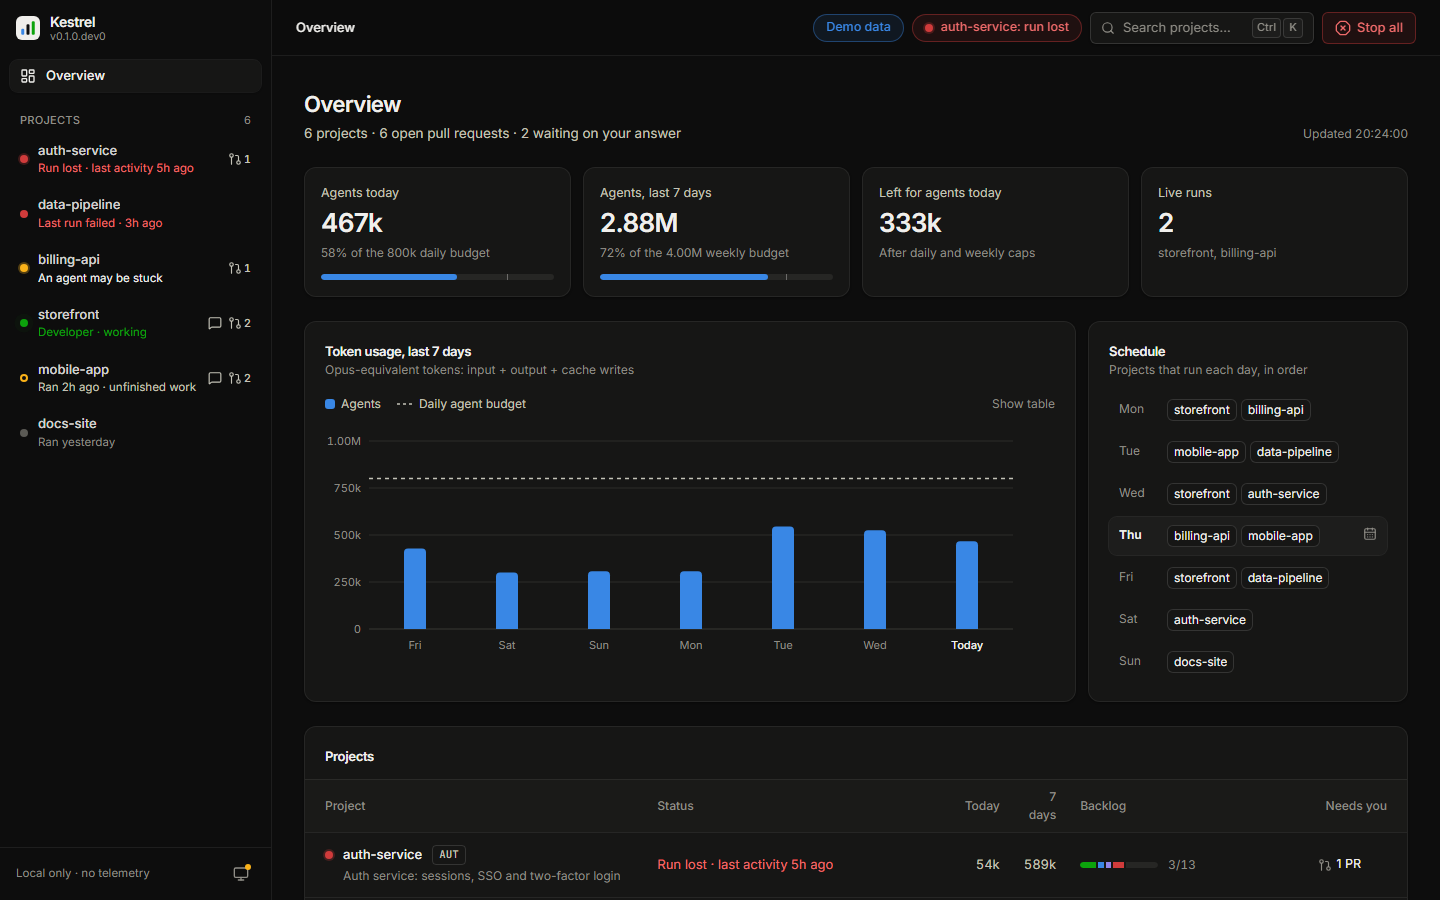
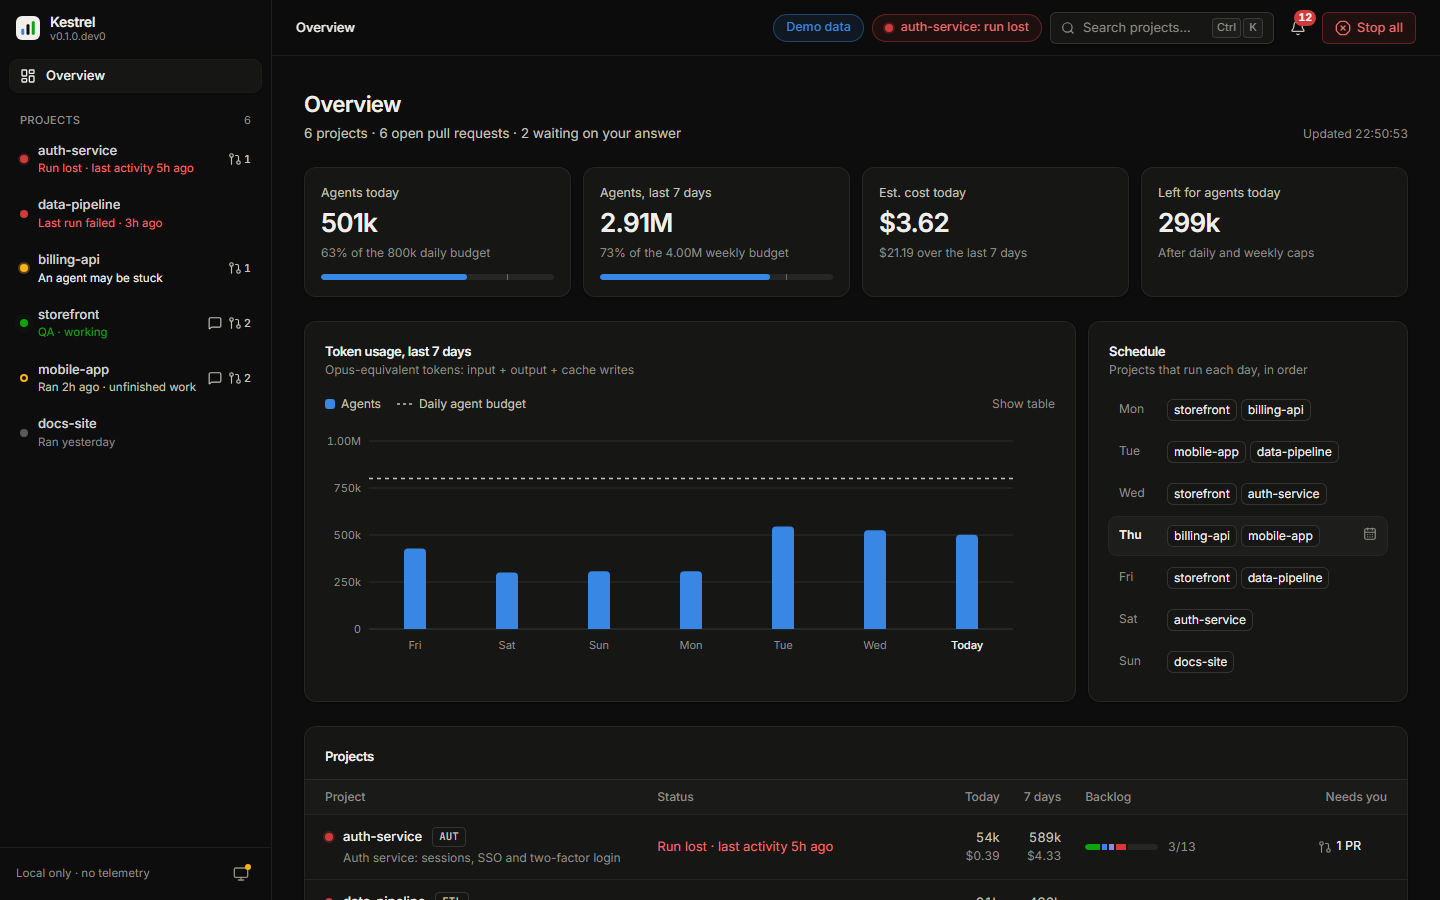
Document stops, caps, cost and alerts; refresh the screenshots
The event format gains Stopping and budgets and Cost sections, the Claude
Code guide explains Stop run and daily caps, the runner guide the new
kestrel stop, and the adapter checklist asks adapters to check for
stops. README, changelog and specs mark Phase 5 done. The per-agent stop
button uses the stop icon instead of a square that read as a checkbox.

diff --git a/frontend/src/components/AgentsTable.tsx b/frontend/src/components/AgentsTable.tsx
@@ -1,5 +1,5 @@
 import { useQueryClient } from "@tanstack/react-query";
-import { CircleCheck, CircleDashed, CircleX, Hourglass, Square, Users } from "lucide-react";
+import { CircleCheck, CircleDashed, CircleX, Hourglass, OctagonX, Users } from "lucide-react";
 import { useState } from "react";
 import { toast } from "sonner";
 import { action, stopPath, type Agent, type Session } from "@/lib/api";
@@ -188,7 +188,7 @@ export function AgentsTable({ session }: { session: Session | undefined }) {
                             aria-label={`Stop ${a.role}`}
                             onClick={() => setStopping(a)}
                           >
-                            <Square />
+                            <OctagonX />
                           </Button>
                         </Tooltip>
                       )

diff --git a/frontend/src/views/OverviewView.tsx b/frontend/src/views/OverviewView.tsx
@@ -198,7 +198,7 @@ export function OverviewView({ ov }: { ov: Overview | undefined }) {
                   <th className="py-2 pr-3 pl-5 font-medium">Project</th>
                   <th className="px-3 py-2 font-medium">Status</th>
                   <th className="px-3 py-2 text-right font-medium">Today</th>
-                  <th className="px-3 py-2 text-right font-medium">7 days</th>
+                  <th className="px-3 py-2 text-right font-medium whitespace-nowrap">7 days</th>
                   <th className="w-[200px] px-3 py-2 font-medium">Backlog</th>
                   <th className="py-2 pr-5 pl-3 text-right font-medium whitespace-nowrap">Needs you</th>
                 </tr>

diff --git a/README.md b/README.md
@@ -39,6 +39,11 @@ pull requests and questions waiting for you.
   a token on ingest, no telemetry, no third-party requests.
 - 📦 **Zero dependencies.** The Python package uses the standard library only. The dashboard ships
   pre-built inside it.
+- 🛑 **In control, not just informed.** Stop an agent, a run or a whole project from the
+  dashboard, and set daily caps in tokens or dollars that actually halt agents.
+- 💵 **Cost you can read.** Estimated dollars next to tokens for every agent, run, project and day.
+- 🔔 **Told when it matters.** Alerts for stuck agents, failed or lost runs, budgets and agents
+  waiting for you: on the dashboard, on your desktop, and to Slack or Discord.
 - 🧭 **Built for the morning after.** Which runs failed, which agent got stuck, which PRs need a
   review, which questions your agents left you, all on one screen.
 
@@ -163,8 +168,12 @@ agents_daily = 800_000        # token budget line on the dashboard (0 = none)
 heartbeat_timeout = 45        # silent this long → the run is lost
 stale_after = 600             # an agent idle this long may be stuck
 
+[alerts]
+webhook = "https://hooks.slack.com/services/…"   # optional; desktop notifications are on by default
+
 [projects.my-project]
 title = "My project: what it is"
+daily_usd = 20                # stop its agents once they cost this much today
 ```
 
 ## Roadmap
@@ -173,9 +182,9 @@ Kestrel is pre-1.0 and moving fast. Next up ([full list](specs/001-kestrel-v0.1/
 
 - [x] Claude Code hooks adapter for any Claude Code session, and a Claude Agent SDK adapter
 - [ ] Adapters for more frameworks ([ask for yours](../../issues/new?template=adapter_request.yml))
-- [ ] Alerts: stuck agent, failed run, budget threshold, PR waiting
-- [ ] Estimated cost in USD next to tokens
-- [ ] Stop buttons per agent and per project; budget caps that halt agents
+- [x] Alerts: stuck agent, failed run, budget threshold, PR waiting
+- [x] Estimated cost in USD next to tokens
+- [x] Stop buttons per agent and per project; budget caps that halt agents
 - [ ] `pipx install kestrel-agents`, Docker image on GHCR, v0.1.0
 
 Want an adapter for your framework? [Ask for it](../../issues/new?template=adapter_request.yml),

diff --git a/docs/events.md b/docs/events.md
@@ -124,6 +124,37 @@ The body may be one event, an array, `{"events": [...]}`, or JSON Lines with
 says how many were accepted, how many were duplicates, and why any were rejected; valid events
 in a batch are kept even if others are not. `GET /v1/health` needs no token.
 
+## Stopping and budgets
+
+The owner can stop everything, a project, a run or one agent from the dashboard or with
+`kestrel stop`, and caps can stop a project's agents automatically:
+
+| Cap | Where | Counts |
+|---|---|---|
+| A run's own budget | `budget` in `run.started` | the run's tokens |
+| A project's daily tokens | `[projects.<name>] daily_tokens` | the project's tokens since local midnight |
+| A project's daily dollars | `[projects.<name>] daily_usd` | the estimated cost since local midnight |
+
+A stop applies to runs that exist when it is made, never to runs started later. Kestrel can't
+kill your process: agents learn about a stop when they ask, so **ask before each step**:
+
+- **Python**: `run.stop_requested` (checked automatically with each heartbeat), or `run.check()`,
+  which raises `StopRequested`; leaving the `with` block then finishes the run as `stopped`.
+  `agent.stop_requested` also covers a stop for that one agent.
+- **HTTP**: `GET /v1/control?project=P&run=R[&agent=A]` with the bearer token returns
+  `{"stop": true, "reason": "...", "scope": "run" | "agent"}` or `{"stop": false, ...}`.
+- **Claude Code, the Agent SDK and the runner** check before every tool call on their own.
+
+When you stop, send `run.finished` (or `agent.finished`) with `"status": "stopped"`.
+
+## Cost
+
+`agent.tokens` events are priced at Claude API list prices when the model is a Claude model, or
+from `[prices."<model name part>"]` in the config (USD per million `input`, `output`,
+`cache_write` and `cache_read` tokens). An event's own `cost_usd` always wins. Tokens of a model
+with no price show as unknown, never as free. Costs are estimates: subscription plans, batch
+discounts and partner platforms bill differently.
+
 ## Security
 
 - The token lives in `<home>/ingest.token`. Because it travels in a custom header, browsers must

diff --git a/docs/runner.md b/docs/runner.md
@@ -130,7 +130,7 @@ if it can't decide, the action is denied.
 
 | Rule | What it blocks |
 |---|---|
-| Stop and budget | Everything after `kestrel stop`, or once the team's allowance is used up. |
+| Stop and budget | Everything after `kestrel stop` or a Stop button on the dashboard, once the team's allowance is used up, or once its `[projects.<team>] daily_tokens` / `daily_usd` cap is reached. |
 | Stay in the workspace | Reading or writing outside the team folder; `.env` files; `~/.ssh`, `~/.aws`, `~/.claude` and other credential locations; absolute paths elsewhere on disk. |
 | Only task branches leave | `git push` except `-u origin <type>/<KEY>-<NNN>-<desc>`; force pushes; `gh` except `pr create/view/list/edit/comment/checks/diff/status`; merging. |
 | No history rewriting | `--no-verify`, `git reset --hard`, `rebase`, `filter-branch`, force flags. |
@@ -147,7 +147,8 @@ if it can't decide, the action is denied.
 |---|---|
 | `kestrel setup [team …]` | Create or refresh team workspaces (charter, settings, roles, repository). Safe to re-run. |
 | `kestrel run` | Today's scheduled run. `--team T` one team · `--force` ignore "already ran" and `start_hour` · `--dry-run` show what would happen · `--allowance N` cap each team · `--extra N` one-off extra tokens · `--lead-model M`. |
-| `kestrel stop` / `kestrel resume` | Raise or lower the `STOP` flag: running agents halt at their next action; no new runs start. Also a button on the dashboard. |
+| `kestrel stop [team] [--run R] [--agent A]` | Stop running agents at their next action: everything (and no new scheduled runs until `kestrel resume`), one team, one run or one agent. Also buttons on the dashboard. |
+| `kestrel resume` | Let scheduled runs start again after `kestrel stop`. |
 | `kestrel status` | Tokens used today and this week, budget left, today's teams. |
 | `kestrel brief [date]` | Rebuild the daily brief. |
 | `kestrel prs` | Open agent pull requests across all teams. |

diff --git a/CHANGELOG.md b/CHANGELOG.md
@@ -8,6 +8,19 @@ All notable changes to Kestrel are documented here. The format follows
 
 ### Added
 
+- **Stop from the dashboard**: Stop buttons for a run, each running agent and a whole project, and
+  `kestrel stop [project] [--run R] [--agent A]`. Stops reach Claude Code and the Agent SDK
+  (the next tool call is refused and the session ends), the runner, the Python client
+  (`run.stop_requested`, `run.check()`) and HTTP reporters (`GET /v1/control`).
+- **Budget caps that halt agents**: `[projects.<name>] daily_tokens` and `daily_usd`, and a run's
+  own `budget`.
+- **Estimated cost** in dollars per agent, run, project and day, from Claude API list prices or
+  `[prices]` in the config.
+- **Alerts** for stuck agents, failed and lost runs, budget thresholds, budget stops, agents
+  waiting for you and pull requests to review: under a bell on the dashboard, and sent once each
+  to the desktop and to `[alerts] webhook` (Slack, Discord) while `kestrel watch` runs.
+- **Retries** next to errors for each agent.
+- **Retention**: `[storage] retention_days` and `kestrel prune [--days N] [--dry-run]`.
 - **`kestrel init`** writes a commented config into the home folder, every value a default.
 - **`kestrel doctor`** checks Python, the home folder, the config (with the line of a TOML error),
   the event store, the web app, the dashboard port, Claude Code hooks and, for the runner,

diff --git a/specs/006-claude-code-hooks/spec.md b/specs/006-claude-code-hooks/spec.md
@@ -44,7 +44,7 @@ Claude Code calls the hook on its lifecycle events. Each call carries the sessio
 |---|---|
 | FR-001 | `kestrel hook install` MUST add Kestrel's hooks to the Claude Code user settings (`--scope project` or `local` for one repository), keep every other setting and hook, back up the file first, and be safe to run twice. |
 | FR-002 | `kestrel hook uninstall` MUST remove only Kestrel's hooks. |
-| FR-003 | The hook MUST exit 0, print nothing to stdout and finish quickly whatever happens, so Claude Code never blocks or receives unexpected context. |
+| FR-003 | The hook MUST exit 0 and finish quickly whatever happens, so Claude Code never blocks. It MUST print nothing to stdout, except, from spec 008 on, the answer that stops an agent when the owner or a budget cap asked for it. |
 | FR-004 | The project MUST be the name of the repository (the folder containing `.git`) or of the working folder; `KESTREL_PROJECT` overrides it. |
 | FR-005 | Events MUST have deterministic ids, so repeated or concurrent hook calls never duplicate anything. |
 | FR-006 | Runs from Claude Code MUST declare a `heartbeat_timeout` of 300 seconds in `run.started`, because Claude Code sends nothing while a model writes a long answer or a tool runs. |

diff --git a/specs/001-kestrel-v0.1/tasks.md b/specs/001-kestrel-v0.1/tasks.md
@@ -53,12 +53,12 @@ Spec: [spec.md](spec.md) · Plan: [plan.md](plan.md)
 
 ## Phase 5: control and cost
 
-- [ ] T060 Alerts: stuck, failed, budget threshold, PR waiting (in-app + desktop + webhook)
-- [ ] T061 Estimated USD cost from a price table; Opus-equivalent normalization as an option
-- [ ] T062 Stop per agent and per project through a control channel adapters poll
-- [ ] T063 Budget caps that halt agents through the same channel
-- [ ] T064 Error, retry and duration columns per agent
-- [ ] T065 Event retention setting and `kestrel prune`
+- [x] T060 Alerts: stuck, failed, budget threshold, PR waiting (in-app + desktop + webhook)
+- [x] T061 Estimated USD cost from a price table; Opus-equivalent normalization as an option
+- [x] T062 Stop per agent and per project through a control channel adapters poll
+- [x] T063 Budget caps that halt agents through the same channel
+- [x] T064 Error, retry and duration columns per agent
+- [x] T065 Event retention setting and `kestrel prune`
 
 ## Phase 6: release
 

diff --git a/docs/claude-code.md b/docs/claude-code.md
@@ -41,6 +41,22 @@ run again (for example after moving Kestrel to another Python).
 Claude Code sends nothing while a model writes a long answer or a tool runs, so its runs are only
 called *lost* after 5 minutes of silence instead of 45 seconds.
 
+### Stopping a session, and daily caps
+
+The **Stop run** button on a run, the stop button next to each agent, and `kestrel stop
+<project>` reach Claude Code through the hook: its next tool call is refused, and the session
+ends (or, for a subagent, the subagent is told to report and stop). The run then shows as
+*stopped*, with the reason.
+
+To cap what a project's sessions may spend each day, add to `config.toml`:
+
+```toml
+[projects.my-repo]
+daily_usd = 20        # or daily_tokens = 2_000_000
+```
+
+Once reached, sessions in that repository are stopped the same way, and an alert says why.
+
 ### Your usage and the agents' budget
 
 The dashboard already shows your own Claude Code usage as **You** (read from Claude Code's logs).

diff --git a/specs/001-kestrel-v0.1/plan.md b/specs/001-kestrel-v0.1/plan.md
@@ -32,8 +32,8 @@ shows. The API serves folded runs; the React app renders them. See the
 | 2 | Event format v1, SQLite store, `POST /v1/events`, Python client, `emit`/`ingest`/`token`, demo mode | Done |
 | 3 | Claude Code hooks adapter for any Claude Code user; Claude Agent SDK adapter; cross-platform runner | Done |
 | 4 | Config and wording pass; `kestrel init` and `kestrel doctor`; runner and adapter guides | Done |
-| 5 | Alerts, USD cost, stop per agent and project, enforced budget caps, retries and durations, UI polish | Next |
-| 6 | Packaging (`pipx`, `uvx`, Docker), README media, release automation, v0.1.0 | Planned |
+| 5 | Alerts, USD cost, stop per agent and project, enforced budget caps, retries and durations, UI polish ([spec 008](../008-control-and-cost/spec.md)) | Done |
+| 6 | Packaging (`pipx`, `uvx`, Docker), README media, release automation, v0.1.0 | Next |
 
 ## Risks
 

diff --git a/docs/adapters.md b/docs/adapters.md
@@ -125,6 +125,7 @@ Send `run.heartbeat` every 10–15 seconds while a run is alive, batch events wh
 - [ ] Tool calls have a short `summary` or a `detail` the dashboard can turn into a readable line.
 - [ ] Tokens are reported with the `model`, so weights and costs work.
 - [ ] Reporting failures are swallowed: monitoring never breaks the agent.
+- [ ] The agent asks whether to stop before each step (`run.check()`, or `GET /v1/control`).
 - [ ] Events that may be re-sent have deterministic `id`s.
 - [ ] Tests feed recorded framework output through the adapter (see
       [`tests/test_claude_code_hooks.py`](../tests/test_claude_code_hooks.py)).

diff --git a/specs/README.md b/specs/README.md
@@ -30,6 +30,7 @@ Architecture decisions that outlive a single feature are recorded as ADRs in
 | 005 | [Event format v1](005-event-format-v1/spec.md) | Done |
 | 006 | [Claude Code and Claude Agent SDK adapters](006-claude-code-hooks/spec.md) | Done |
 | 007 | [First run: `kestrel init` and `kestrel doctor`](007-first-run/spec.md) | Done |
+| 008 | [Control and cost: stop buttons, budget caps, alerts, dollars](008-control-and-cost/spec.md) | Done |
 
 ## Proposing a change
 
